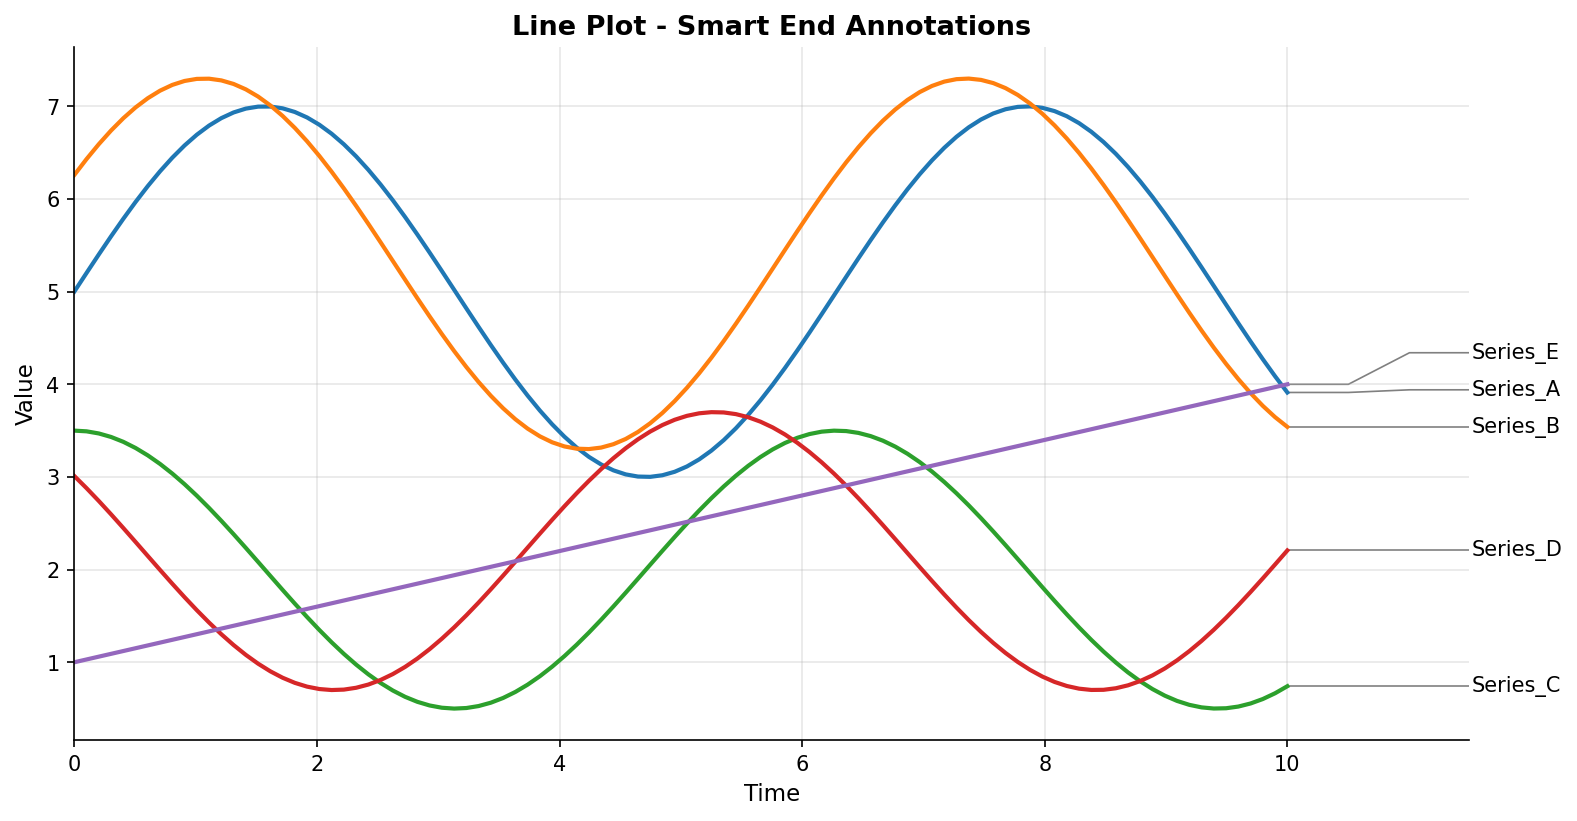
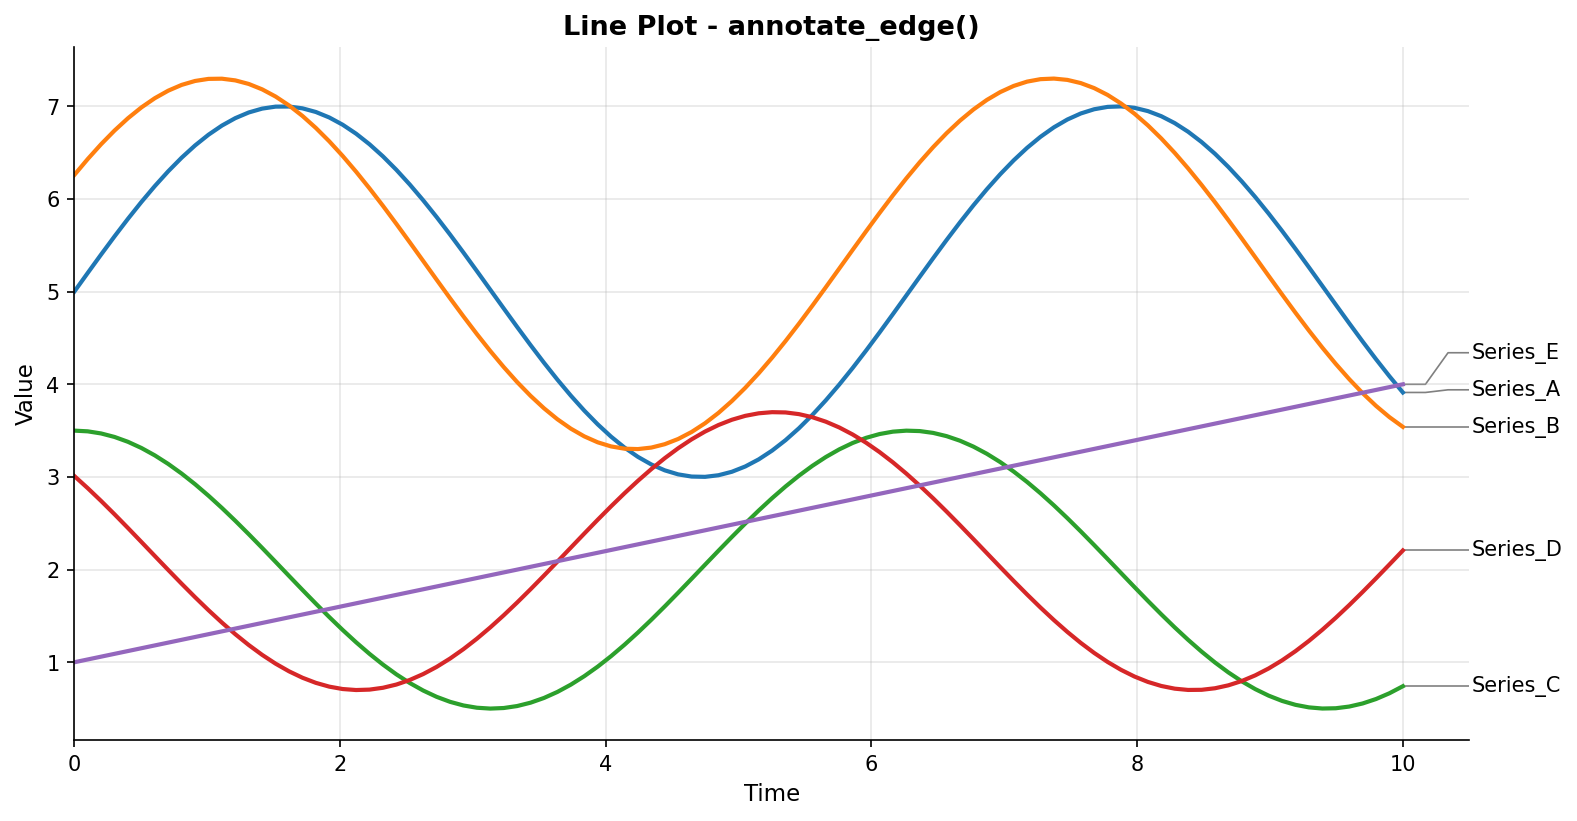
refactor: use same annotate_edge() for both heatmap and line plot examples
Both examples now use annotate_edge() directly:
- Heatmap: x_start=n_cols-0.5 (heatmap edge)
- Line plot: x_start=x[-1] (line end)

Same function, different x_start - demonstrates generalizability

diff --git a/examples/heatmap_annotation.py b/examples/heatmap_annotation.py
@@ -1,7 +1,7 @@
 """
 Edge Annotation Examples
 
-Shows annotate_edge() for:
+Shows annotate_edge() - one function for all edge annotations:
 1. Heatmap row annotations
 2. Line plot end annotations
 """
@@ -10,11 +10,11 @@ import matplotlib.pyplot as plt
 import numpy as np
 from matplotlib.patches import Rectangle
 
-from pyforce import annotate_edge, annotate_heatmap_rows
+from pyforce import annotate_edge
 
 
 def heatmap_example():
-    """Heatmap with smart row annotations."""
+    """Heatmap with smart row annotations using annotate_edge()."""
     np.random.seed(123)
 
     n_rows = 150
@@ -28,29 +28,26 @@ def heatmap_example():
     im = ax.imshow(data, aspect="auto", cmap="viridis")
 
     # Mix of rows: some close (need dodge), some far (no dodge)
-    rows_to_annotate = [
-        20,
-        45,
-        74, 75, 76,
-        100,
-        130, 131,
-    ]
-    row_labels = [
+    rows = [20, 45, 74, 75, 76, 100, 130, 131]
+    labels = [
         "Gene_A",
         "Gene_B",
-        "Target_1", "Target_2", "Target_3",
+        "Target_1",
+        "Target_2",
+        "Target_3",
         "Marker_X",
-        "Factor_1", "Factor_2",
+        "Factor_1",
+        "Factor_2",
     ]
 
-    ax.set_xlim(-0.5, n_cols - 0.1)
+    ax.set_xlim(-0.5, n_cols - 0.2)
 
-    # Use heatmap convenience function
-    annotate_heatmap_rows(
+    # Same annotate_edge() function - just specify x_start for heatmap
+    annotate_edge(
         ax,
-        rows_to_annotate,
-        row_labels,
-        n_cols,
+        y_positions=rows,
+        labels=labels,
+        x_start=n_cols - 0.5,  # Heatmap edge
         side="right",
         label_fontsize=9,
         label_color="black",
@@ -60,14 +57,19 @@ def heatmap_example():
     )
 
     rect = Rectangle(
-        (-0.5, 70 - 0.5), n_cols, 15,
-        linewidth=2, edgecolor="red", facecolor="none", linestyle="--",
+        (-0.5, 70 - 0.5),
+        n_cols,
+        15,
+        linewidth=2,
+        edgecolor="red",
+        facecolor="none",
+        linestyle="--",
     )
     ax.add_patch(rect)
 
     ax.set_xlabel("Samples", fontsize=11)
     ax.set_ylabel("Features (150 rows)", fontsize=11)
-    ax.set_title("Heatmap - Smart Row Annotations", fontsize=13, fontweight="bold")
+    ax.set_title("Heatmap - annotate_edge()", fontsize=13, fontweight="bold")
     ax.set_xticks(range(n_cols))
     ax.set_xticklabels([f"S{i+1}" for i in range(n_cols)])
     ax.spines["right"].set_visible(False)
@@ -81,7 +83,7 @@ def heatmap_example():
 
 
 def lineplot_example():
-    """Line plot with end annotations."""
+    """Line plot with end annotations using annotate_edge()."""
     np.random.seed(42)
 
     x = np.linspace(0, 10, 100)
@@ -101,10 +103,9 @@ def lineplot_example():
     for i, (name, y) in enumerate(lines.items()):
         ax.plot(x, y, color=colors[i], linewidth=2)
 
-    # Extend x for labels
-    ax.set_xlim(0, 11.5)
+    ax.set_xlim(0, 10.5)
 
-    # Annotate at line ends using general annotate_edge
+    # Same annotate_edge() function - specify x_start at line end
     y_ends = [y[-1] for y in lines.values()]
     labels = list(lines.keys())
 
@@ -112,7 +113,7 @@ def lineplot_example():
         ax,
         y_positions=y_ends,
         labels=labels,
-        x_start=x[-1],
+        x_start=x[-1],  # End of lines
         side="right",
         label_fontsize=10,
         label_color="black",
@@ -123,7 +124,7 @@ def lineplot_example():
 
     ax.set_xlabel("Time", fontsize=11)
     ax.set_ylabel("Value", fontsize=11)
-    ax.set_title("Line Plot - Smart End Annotations", fontsize=13, fontweight="bold")
+    ax.set_title("Line Plot - annotate_edge()", fontsize=13, fontweight="bold")
     ax.grid(True, alpha=0.3)
     ax.spines["right"].set_visible(False)
     ax.spines["top"].set_visible(False)

diff --git a/pyforce/annotations.py b/pyforce/annotations.py
@@ -1366,19 +1366,23 @@ def annotate_edge(
             elbow_x = edge_x + direction * seg_width
             label_align_x = label_x - direction * seg_width
 
-            vertices = np.array([
-                [edge_x, y],
-                [elbow_x, y],
-                [label_align_x, label_y],
-                [label_x, label_y],
-            ])
+            vertices = np.array(
+                [
+                    [edge_x, y],
+                    [elbow_x, y],
+                    [label_align_x, label_y],
+                    [label_x, label_y],
+                ]
+            )
             codes = [Path.MOVETO, Path.LINETO, Path.LINETO, Path.LINETO]
         else:
             # Simple horizontal line
-            vertices = np.array([
-                [edge_x, y],
-                [label_x, y],
-            ])
+            vertices = np.array(
+                [
+                    [edge_x, y],
+                    [label_x, y],
+                ]
+            )
             codes = [Path.MOVETO, Path.LINETO]
 
         path = Path(vertices, codes)
